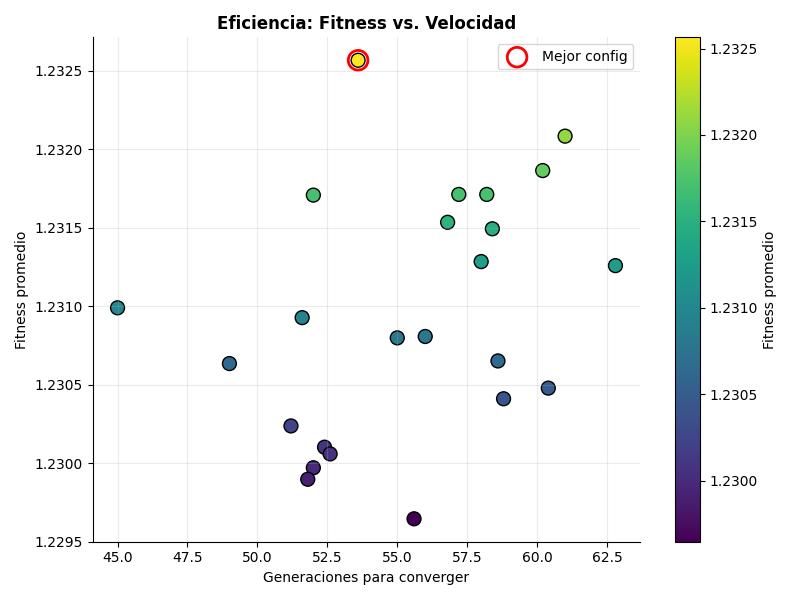
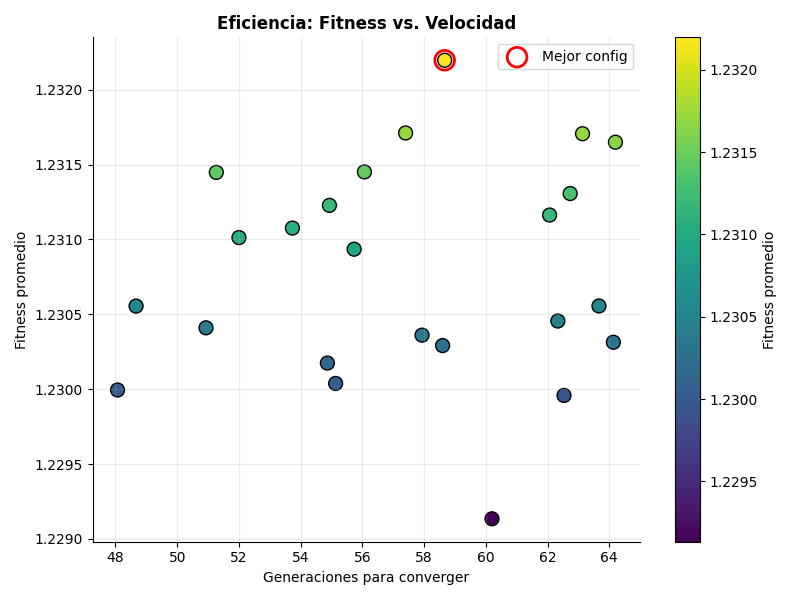
eliminacion de elitismo en el tuning

diff --git a/tuning/parameter_tuning.py b/tuning/parameter_tuning.py
@@ -38,7 +38,7 @@ GENERATIONS = [150]
 TOURNAMENT_SIZES = [2, 3]
 CROSSOVER_RATES = [0.70, 0.80, 0.90]
 MUTATION_RATES = [0.02, 0.05]
-REPETITIONS = 5     
+REPETITIONS = 15     
 
 BASE_SEED = 123
 USE_MULTIPROCESSING = True
@@ -58,7 +58,7 @@ def _run_single(args):
         surgeons=_SURGEONS, procedures=_PROCEDURES, patients=patients,
         population_size=population_size, generations=generations,
         tournament_size=tournament_size, crossover_rate=crossover_rate,
-        mutation_rate=mutation_rate, elitism_rate=0.10,
+        mutation_rate=mutation_rate,
         stagnation_limit=30, alpha=1.0, beta=0.3,
     )
 
